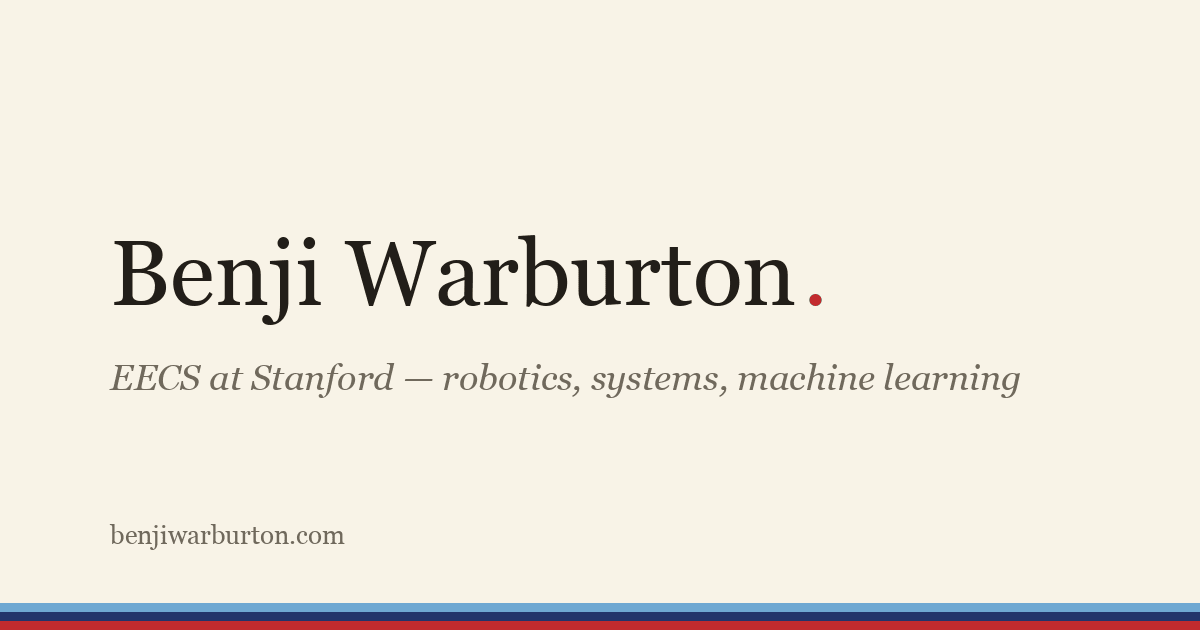
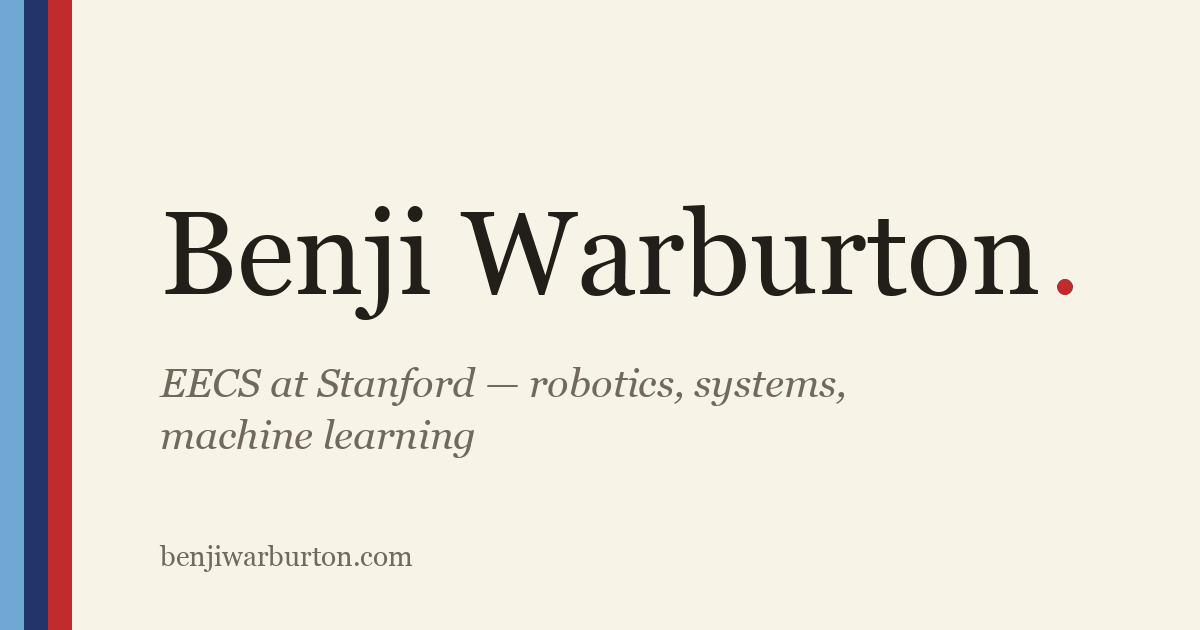
taylor dunn blog

diff --git a/projects/electric-truck/index.html b/projects/electric-truck/index.html
@@ -14,7 +14,7 @@
   </script>
   <meta
     name="description"
-    content="Restoring a 1990s Taylor-Dunn electric truck with modern controls, drivetrain, and sensing."
+    content="Restoring a 1990s Taylor-Dunn electric truck: a trade involving a $30 motorbike, a free lot of car batteries, one broken limit switch, and a 3am first drive."
   />
   <meta name="theme-color" content="#f8f3e7" media="(prefers-color-scheme: light)" />
   <meta name="theme-color" content="#2a2724" media="(prefers-color-scheme: dark)" />
@@ -43,19 +43,146 @@
 
     <header class="project-head">
       <h1>Electric truck restoration</h1>
-      <p class="tagline">Ongoing — hardware</p>
+      <p class="tagline">Ongoing — with <a href="https://www.randomodbuild.com/pages/about/" target="_blank" rel="noopener">Brooks Modesitt</a></p>
     </header>
 
     <div class="prose">
       <p>
-        I&rsquo;m restoring a 1990s Taylor-Dunn electric truck — rebuilding it
-        around modern controls, drivetrain, and sensing.
+        There&rsquo;s a story at Stanford, often told by the people on the
+        solar car team: in the nineties, a student named JB Straubel bought a
+        wrecked Porsche 944, threw out the blown engine, and filled it with
+        batteries. It set a world record for EV drag racing, and he went on to
+        co-found Tesla. I read about it growing up in Ashlee Vance&rsquo;s Elon
+        Musk book, and iv&rsquo;e wanted to do something similar  ever since.
+      </p>
+      <p>
+        So when a 1990s Taylor-Dunn electric truck turned up on Facebook
+        Marketplace, my friend Brooks and I didn&rsquo;t really have a
+        choice in the matter.
       </p>
     </div>
 
+    <figure class="figure figure--tall">
+      <img src="./media/listing.jpg" alt="Facebook Marketplace listing for a Taylor Dunn Electric Truck, $1,500, sold. Description reads: Will trade for motorcycle, dirtbike, truck. It can run but isn't." loading="lazy" />
+      <figcaption>&ldquo;It can run but isn&rsquo;t&rdquo; is the greatest sentence ever listed on Marketplace.</figcaption>
+    </figure>
+
     <section class="section">
-      <h2 class="label">Build log</h2>
-      <p class="aside">Notes and photos coming soon.</p>
+      <h2 class="label">The trade</h2>
+      <div class="prose">
+        <p>
+          Brooks owns a motorbike that cost him about $30. I forget how this happened, but I think it was because he paid the outstanding property tax on an abandoned
+          lot that happened to have a motorbike sitting on it. This is legal apparently. We traded the bike plus $300 for the truck.
+        </p>
+        <p>
+          The facebook marketplace listing was completely honest: "it can run, but isn&rsquo;t."
+          For the first stretch of its life with us, the truck was Brooks powered.
+        </p>
+      </div>
+      <figure class="figure figure--tall">
+        <img src="./media/push.gif" alt="One person steering the Taylor-Dunn while another pushes it down the road" loading="lazy" />
+        <figcaption>Peak output: roughly one Brooks-power.</figcaption>
+      </figure>
+    </section>
+
+    <section class="section">
+      <h2 class="label">Batteries</h2>
+      <div class="prose">
+        <p>
+          The first problem was the batteries. They were leaking acid and lead everywhere, and half of them read 0V. We
+          found a job lot of car batteries in South San Francisco for $100 —
+          then told the seller what they were for, and he gave them to us for
+          free! shoutout. 
+        </p>
+      </div>
+      <figure class="figure">
+        <img src="./media/batteries.jpg" alt="A bench covered in a dozen assorted car batteries" loading="lazy" />
+        <figcaption>The haul.</figcaption>
+      </figure>
+      <div class="prose">
+        <p>
+          For wiring guidance we tracked down the original Taylor-Dunn manual
+          online — a scan of a scan of a photocopy — and OCRed it back into
+          something searchable/that we could put into codex. 
+        </p>
+      </div>
+    </section>
+
+    <section class="section">
+      <h2 class="label">The mammoth session</h2>
+      <div class="prose">
+        <p>
+          We got the batteries back to campus at noon. The moment they went in,
+          the 12V systems woke up — horn, lights, indicators, all of it,
+          blinking like nothing had ever been wrong. Very encouraging. Less
+          encouraging: every time we wired up the traction pack, it threw
+          up huge sparks. we would really dread having to disconnect and reconnect the batteries because the chances of being electrocuted felt high.
+        </p>
+      </div>
+      <figure class="figure">
+        <img src="./media/courtyard.jpg" alt="Overhead view of a courtyard with the truck's hood open and three people working on it, parts laid out on the ground" loading="lazy" />
+        <figcaption>The operating theater.</figcaption>
+      </figure>
+      <div class="prose">
+        <p>
+          We disconnected and reconnected every bit of wiring, and still the truck wouldn&rsquo;t move. After a lot of staring at
+          the OCRed manual, and the motor controller (the relays were huge) we traced it to the accelerator pedal, which turned
+          out to be broken in a permanent state of stuck-down — the truck
+          thought it was floored at all times, and a safety interlock
+          (reasonably) refused to cooperate. So we took the pedal apart and
+          found the culprit: a dead limit switch.
+        </p>
+        <p>
+          Here&rsquo;s the beautiful part. It was the exact limit switch
+          stocked in the ME210 mechatronics workshop — a class I&rsquo;d taken
+          the previous quarter. At this point, it was 1am. The workshop is open around the
+          clock to enrolled students, and surprisingly, open at 1am to students who were
+          enrolled one quarter ago and are willing to walk with purpose. We
+          &ldquo;borrowed&rdquo; one. The quotes are doing some work in that
+          sentence, but I did take the class, and the truck needed it more
+          than the shelf did.
+        </p>
+      </div>
+      <figure class="figure figure--tall">
+        <img src="./media/pedal.jpg" alt="A workbench at night with a multimeter, screwdriver, and the disassembled accelerator pedal mid-repair" loading="lazy" />
+        <figcaption>1am limit-switch surgery. The patient survived.</figcaption>
+      </figure>
+      <div class="prose">
+        <p>
+          Desolder the dead switch, solder in the new one, reassemble the
+          pedal, hold breath, wire the pack — and the truck came to life.
+        </p>
+      </div>
+      <figure class="figure figure--tall">
+        <img src="./media/alive.jpg" alt="The truck at night with its taillights glowing red" loading="lazy" />
+        <figcaption>Taillights: on. Feeling: indescribable.</figcaption>
+      </figure>
+    </section>
+
+    <section class="section">
+      <h2 class="label">3am</h2>
+      <div class="prose">
+        <p>
+          Noon to 3am, one continuous session. Would not change a thing.
+        </p>
+      </div>
+      <figure class="figure figure--tall">
+        <img src="./media/night.gif" alt="Blurry nighttime footage from the moving truck, streetlights streaking past" loading="lazy" />
+        <figcaption>Victory lap. Camera work reflects the emotional state of the operator.</figcaption>
+      </figure>
+      <figure class="figure">
+        <img src="./media/cab.jpg" alt="Two people in the truck's cab at night, one driving, one taking the photo" loading="lazy" />
+        <figcaption>3am. Thijs takes the truck for a spin.</figcaption>
+      </figure>
+    </section>
+
+    <section class="section">
+      <h2 class="label">Next</h2>
+      <div class="prose">
+        <p>
+          issues with stanford's policy on vehicles + modern batteries, brushless motor, and drive by wire.
+        </p>
+      </div>
     </section>
 
     <footer class="footer">

diff --git a/styles/main.css b/styles/main.css
@@ -294,10 +294,6 @@ img.mark-yc {
   padding: 3px;
 }
 
-img.mark-stanford {
-  padding: 3px 0;
-}
-
 .mark-rise-dark {
   display: none;
 }
@@ -380,6 +376,30 @@ img.mark-stanford {
   color: var(--muted);
   font-size: 0.95rem;
   font-style: italic;
+}
+
+/* ---------- blog figures ---------- */
+
+.figure {
+  margin: 36px 0;
+}
+
+.figure img {
+  width: 100%;
+  border-radius: 3px;
+}
+
+.figure--tall img {
+  width: min(100%, 340px);
+  margin-inline: auto;
+}
+
+.figure figcaption {
+  margin-top: 10px;
+  color: var(--muted);
+  font-size: 0.88rem;
+  font-style: italic;
+  text-align: center;
 }
 
 /* ---------- footer ---------- */

diff --git a/index.html b/index.html
@@ -101,7 +101,7 @@
           <span class="row-meta">Current</span>
         </li>
         <li class="row">
-          <img class="row-logo mark-stanford" src="./assets/logos/stanford-mark.png" alt="" />
+          <img class="row-logo mark-stanford" src="./assets/logos/stanford-tree.svg" alt="" />
           <div class="row-main">
             <h3>Teaching Assistant, CS 123</h3>
             <p>Only undergraduate on the teaching team; built labs with collaborators from Google DeepMind and mentor six robotics teams.</p>
